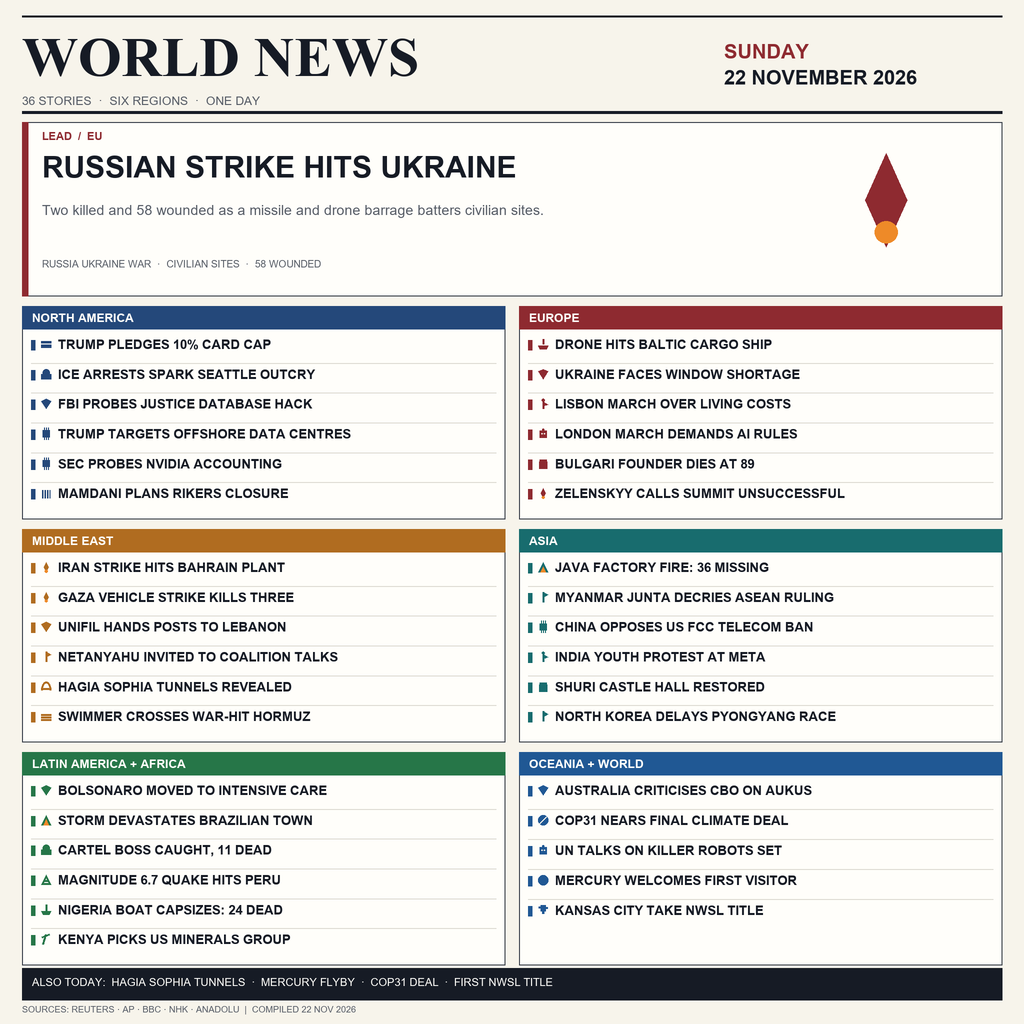
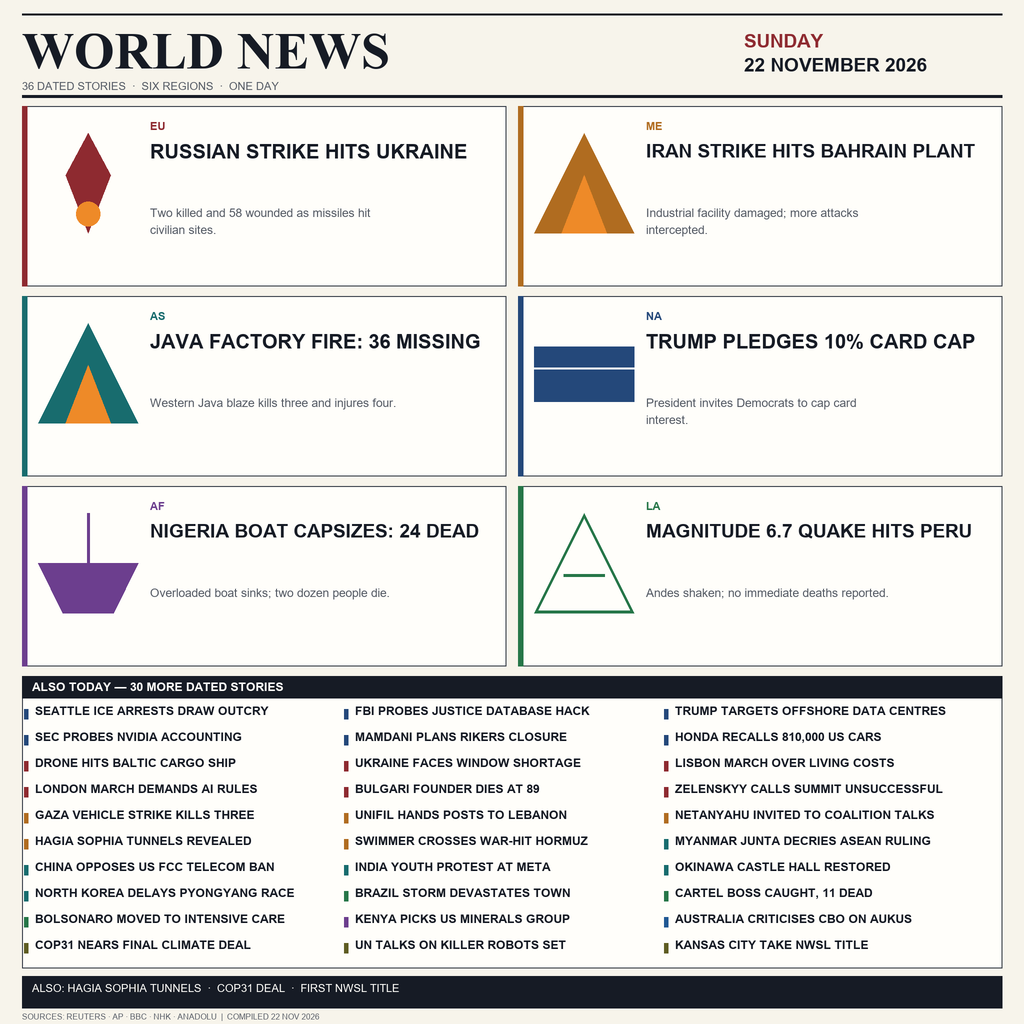
Improve legibility: six pictorial panels plus dated briefs

Changed region(s): [[0.0, 0.0, 1.0, 1.0]]

diff --git a/render.py b/render.py
@@ -1,225 +1,181 @@
 from PIL import Image, ImageDraw, ImageFont
+import textwrap
 
 S = 2
 W = H = 1024
 PAPER = (247, 244, 235)
 INK = (22, 27, 37)
-MUTED = (88, 94, 104)
+MUTED = (86, 92, 102)
 WHITE = (255, 254, 250)
-rule = (62, 68, 78)
-COLORS = {
+RULE = (62, 68, 78)
+C = {
     'NA': (36, 72, 122), 'EU': (142, 42, 48), 'ME': (176, 108, 32),
     'AS': (24, 108, 110), 'AF': (108, 62, 142), 'LA': (38, 118, 72),
-    'OC': (32, 88, 148), 'SCI': (94, 92, 34),
+    'OC': (32, 88, 148), 'WT': (94, 92, 34),
 }
-FONTS = 'C:/Windows/Fonts/'
-Regular = lambda n: ImageFont.truetype(FONTS + 'arial.ttf', n * S)
-Bold = lambda n: ImageFont.truetype(FONTS + 'arialbd.ttf', n * S)
-Serif = lambda n: ImageFont.truetype(FONTS + 'timesbd.ttf', n * S)
+F = 'C:/Windows/Fonts/'
+Reg = lambda n: ImageFont.truetype(F + 'arial.ttf', n * S)
+Bold = lambda n: ImageFont.truetype(F + 'arialbd.ttf', n * S)
+Serif = lambda n: ImageFont.truetype(F + 'timesbd.ttf', n * S)
 
-img = Image.new('RGB', (W * S, H * S), PAPER)
-d = ImageDraw.Draw(img)
-
-
-def px(v):
-    return int(round(v * S))
+im = Image.new('RGB', (W * S, H * S), PAPER)
+d = ImageDraw.Draw(im)
+p = lambda v: int(round(v * S))
 
 
-def text(x, y, s, font, fill=INK):
-    d.text((px(x), px(y)), s, font=font, fill=fill, anchor='la')
+def txt(x, y, s, font, fill=INK):
+    d.text((p(x), p(y)), s, font=font, fill=fill, anchor='la')
 
 
-def width(s, font):
+def wid(s, font):
     b = d.textbbox((0, 0), s, font=font)
     return (b[2] - b[0]) / S
 
 
-def bottom(y, s, font):
+def bot(y, s, font):
     b = d.textbbox((0, 0), s, font=font)
     return y + (b[3] - b[1]) / S
 
 
-def fitted(s, box_w, size, bold=True):
-    n = size
+def fit(s, maxw, n, bold=True):
     while n > 8:
-        f = Bold(n) if bold else Regular(n)
-        if width(s, f) <= box_w:
+        f = Bold(n) if bold else Reg(n)
+        if wid(s, f) <= maxw:
             return f
         n -= 1
-    return Bold(9) if bold else Regular(9)
+    return Bold(9) if bold else Reg(9)
 
 
-def rect(x0, y0, x1, y1, fill=None, outline=None, w=1):
-    d.rectangle((px(x0), px(y0), px(x1), px(y1)), fill=fill, outline=outline, width=px(w))
+def box(x0, y0, x1, y1, fill=None, outline=None, w=1):
+    d.rectangle((p(x0), p(y0), p(x1), p(y1)), fill=fill, outline=outline, width=p(w))
 
 
-def line(x0, y0, x1, y1, fill=rule, w=1):
-    d.line((px(x0), px(y0), px(x1), px(y1)), fill=fill, width=px(w))
+def ln(x0, y0, x1, y1, fill=RULE, w=1):
+    d.line((p(x0), p(y0), p(x1), p(y1)), fill=fill, width=p(w))
 
 
-def icon(kind, x, y, size, color):
-    s = size
-    cx, cy = x + s / 2, y + s / 2
-    if kind == 'missile':
-        d.polygon([(px(cx), px(y + 1)), (px(cx + s * .22), px(cy)), (px(cx), px(y + s - 1)), (px(cx - s * .22), px(cy))], fill=color)
-        d.ellipse((px(cx - s * .12), px(y + s * .72), px(cx + s * .12), px(y + s * .95)), fill=(238, 138, 40))
-    elif kind == 'ship':
-        d.polygon([(px(x + 1), px(cy + s * .12)), (px(x + s - 1), px(cy + s * .12)), (px(x + s * .78), px(y + s - 1)), (px(x + s * .22), px(y + s - 1))], fill=color)
-        line(x + s * .5, y + 1, x + s * .5, y + s * .5, color, 2)
-    elif kind == 'card':
-        rect(x + 1, y + s * .25, x + s - 1, y + s * .78, color)
-        line(x + 1, y + s * .45, x + s - 1, y + s * .45, WHITE, 1)
-    elif kind == 'police':
-        d.polygon([(px(x + 1), px(cy)), (px(x + s - 1), px(cy)), (px(x + s - 1), px(y + s - 1)), (px(x + 1), px(y + s - 1))], fill=color)
-        d.ellipse((px(cx - s * .28), px(y + 1), px(cx + s * .28), px(cy + 2)), fill=color)
-    elif kind == 'shield':
-        d.polygon([(px(cx), px(y + 1)), (px(x + s - 1), px(y + s * .28)), (px(cx), px(y + s - 1)), (px(x + 1), px(y + s * .28))], fill=color)
-    elif kind == 'chip':
-        rect(x + s * .22, y + s * .22, x + s * .78, y + s * .78, color)
-        for k in range(3):
-            line(x + s * .35 + k * s * .15, y, x + s * .35 + k * s * .15, y + s * .22, color, 1)
-            line(x + s * .35 + k * s * .15, y + s * .78, x + s * .35 + k * s * .15, y + s, color, 1)
-    elif kind == 'jail':
-        rect(x + 2, y + s * .22, x + s - 2, y + s - 1, color)
-        for k in range(3):
-            line(x + s * (.3 + k * .2), y + s * .22, x + s * (.3 + k * .2), y + s - 1, WHITE, 1)
-    elif kind == 'car':
-        rect(x + 1, y + s * .42, x + s - 1, y + s * .8, color)
-        d.ellipse((px(x + 2), px(y + s * .7), px(x + s * .35), px(y + s - 1)), fill=color)
-        d.ellipse((px(x + s * .65), px(y + s * .7), px(x + s - 2), px(y + s - 1)), fill=color)
-    elif kind == 'protest':
-        line(cx, y + s * .3, cx, y + s - 1, color, 2)
-        d.ellipse((px(cx - s * .12), px(y + 1), px(cx + s * .12), px(y + s * .3)), fill=color)
-        d.polygon([(px(cx), px(y + s * .3)), (px(x + s - 1), px(y + s * .55)), (px(cx), px(y + s * .7))], fill=color)
-    elif kind == 'fire':
-        d.polygon([(px(cx), px(y + 1)), (px(x + s - 1), px(y + s - 1)), (px(x + 1), px(y + s - 1))], fill=color)
-        d.polygon([(px(cx), px(y + s * .45)), (px(cx + s * .22), px(y + s - 1)), (px(cx - s * .22), px(y + s - 1))], fill=(238, 138, 40))
-    elif kind == 'quake':
-        d.polygon([(px(x + 1), px(y + s - 1)), (px(cx), px(y + 1)), (px(x + s - 1), px(y + s - 1))], outline=color, width=px(2))
-        line(x + s * .28, y + s * .6, x + s * .72, y + s * .6, color, 2)
-    elif kind == 'boat':
-        d.polygon([(px(x + 1), px(cy + s * .15)), (px(x + s - 1), px(cy + s * .15)), (px(x + s * .75), px(y + s - 1)), (px(x + s * .25), px(y + s - 1))], fill=color)
-        line(cx, y + 1, cx, cy + s * .15, color, 2)
-    elif kind == 'pick':
-        line(x + s * .25, y + s - 1, cx, y + 1, color, 2)
-        line(x + s * .15, y + s * .3, x + s * .8, y + 1, color, 2)
-    elif kind == 'leaf':
-        d.ellipse((px(x + 1), px(y + 1), px(x + s - 1), px(y + s - 1)), fill=color)
-        line(x + s * .2, y + s * .8, x + s * .8, y + s * .2, PAPER, 1)
-    elif kind == 'flag':
-        line(cx, y + 1, cx, y + s - 1, color, 2)
-        d.polygon([(px(cx), px(y + 1)), (px(x + s - 1), px(y + s * .32)), (px(cx), px(y + s * .55))], fill=color)
-    elif kind == 'tunnel':
-        d.arc((px(x + 1), px(y + 1), px(x + s - 1), px(y + s * 1.5)), 180, 360, fill=color, width=px(2))
-        line(x + 1, y + s * .7, x + s - 1, y + s * .7, color, 2)
-    elif kind == 'planet':
-        d.ellipse((px(x + 1), px(y + 1), px(x + s - 1), px(y + s - 1)), outline=color, width=px(2))
-        d.ellipse((px(x + s * .2), px(y + s * .2), px(x + s * .8), px(y + s * .8)), fill=color)
-    elif kind == 'robot':
-        rect(x + s * .2, y + s * .25, x + s * .8, y + s * .85, color)
-        d.ellipse((px(cx - s * .1), px(y + s * .1), px(cx + s * .1), px(y + s * .3)), fill=color)
-        d.ellipse((px(x + s * .35), px(y + s * .45), px(x + s * .44), px(y + s * .55)), fill=PAPER)
-        d.ellipse((px(x + s * .56), px(y + s * .45), px(x + s * .65), px(y + s * .55)), fill=PAPER)
-    elif kind == 'castle':
-        rect(x + s * .18, y + s * .35, x + s * .82, y + s - 1, color)
-        for k in range(3):
-            rect(x + s * (.2 + k * .22), y + s * .18, x + s * (.36 + k * .22), y + s * .4, color)
-    elif kind == 'trophy':
-        rect(x + s * .3, y + 1, x + s * .7, y + s * .6, color)
-        line(x + s * .3, y + s * .3, x + s * .12, y + s * .3, color, 2)
-        line(x + s * .7, y + s * .3, x + s * .88, y + s * .3, color, 2)
-        rect(x + s * .42, y + s * .6, x + s * .58, y + s * .8, color)
-    elif kind == 'swim':
-        for k in range(3):
-            line(x + 1, y + s * (.35 + k * .22), x + s - 1, y + s * (.35 + k * .22), color, 2)
+def icon(k, x, y, s, col):
+    cx = x + s / 2
+    if k == 'missile':
+        d.polygon([(p(cx), p(y + 1)), (p(cx + s * .22), p(y + s * .42)), (p(cx), p(y + s - 1)), (p(cx - s * .22), p(y + s * .42))], fill=col)
+        d.ellipse((p(cx - s * .12), p(y + s * .68), p(cx + s * .12), p(y + s * .92)), fill=(238, 138, 40))
+    elif k == 'fire':
+        d.polygon([(p(cx), p(y + 1)), (p(x + s - 1), p(y + s - 1)), (p(x + 1), p(y + s - 1))], fill=col)
+        d.polygon([(p(cx), p(y + s * .42)), (p(cx + s * .22), p(y + s - 1)), (p(cx - s * .22), p(y + s - 1))], fill=(238, 138, 40))
+    elif k == 'card':
+        box(x + 1, y + s * .24, x + s - 1, y + s * .78, col)
+        ln(x + 1, y + s * .45, x + s - 1, y + s * .45, WHITE, 2)
+    elif k == 'shield':
+        d.polygon([(p(cx), p(y + 1)), (p(x + s - 1), p(y + s * .28)), (p(cx), p(y + s - 1)), (p(x + 1), p(y + s * .28))], fill=col)
+    elif k == 'quake':
+        d.polygon([(p(x + 1), p(y + s - 1)), (p(cx), p(y + 1)), (p(x + s - 1), p(y + s - 1))], outline=col, width=p(3))
+        ln(x + s * .3, y + s * .62, x + s * .7, y + s * .62, col, 3)
+    elif k == 'boat':
+        d.polygon([(p(x + 1), p(y + s * .5)), (p(x + s - 1), p(y + s * .5)), (p(x + s * .75), p(y + s - 1)), (p(x + s * .25), p(y + s - 1))], fill=col)
+        ln(cx, y + 1, cx, y + s * .5, col, 3)
+    elif k == 'police':
+        box(x + 2, y + s * .4, x + s - 2, y + s - 1, col)
+        d.ellipse((p(cx - s * .28), p(y + 1), p(cx + s * .28), p(y + s * .45)), fill=col)
+    elif k == 'chip':
+        box(x + s * .22, y + s * .22, x + s * .78, y + s * .78, col)
+        for i in range(3):
+            ln(x + s * (.35 + i * .15), y, x + s * (.35 + i * .15), y + s * .22, col, 2)
+            ln(x + s * (.35 + i * .15), y + s * .78, x + s * (.35 + i * .15), y + s, col, 2)
+    elif k == 'protest':
+        ln(cx, y + s * .3, cx, y + s - 1, col, 3)
+        d.ellipse((p(cx - s * .12), p(y + 1), p(cx + s * .12), p(y + s * .3)), fill=col)
+        d.polygon([(p(cx), p(y + s * .3)), (p(x + s - 1), p(y + s * .55)), (p(cx), p(y + s * .72))], fill=col)
+    elif k == 'leaf':
+        d.ellipse((p(x + 1), p(y + 1), p(x + s - 1), p(y + s - 1)), fill=col)
+        ln(x + s * .2, y + s * .8, x + s * .8, y + s * .2, PAPER, 2)
+    elif k == 'trophy':
+        box(x + s * .3, y + 1, x + s * .7, y + s * .6, col)
+        ln(x + s * .3, y + s * .3, x + s * .12, y + s * .3, col, 2)
+        ln(x + s * .7, y + s * .3, x + s * .88, y + s * .3, col, 2)
+    elif k == 'flag':
+        ln(cx, y + 1, cx, y + s - 1, col, 3)
+        d.polygon([(p(cx), p(y + 1)), (p(x + s - 1), p(y + s * .32)), (p(cx), p(y + s * .58))], fill=col)
+    elif k == 'castle':
+        box(x + s * .18, y + s * .35, x + s * .82, y + s - 1, col)
+        for i in range(3):
+            box(x + s * (.2 + i * .22), y + s * .18, x + s * (.36 + i * .22), y + s * .4, col)
+    elif k == 'swim':
+        for i in range(3):
+            ln(x + 1, y + s * (.35 + i * .22), x + s - 1, y + s * (.35 + i * .22), col, 3)
     else:
-        d.ellipse((px(x + 2), px(y + 2), px(x + s - 2), px(y + s - 2)), fill=color)
+        d.ellipse((p(x + 2), p(y + 2), p(x + s - 2), p(y + s - 2)), fill=col)
 
 
-LEAD = ('EU', 'missile', 'RUSSIAN STRIKE HITS UKRAINE',
-        'Two killed and 58 wounded as a missile and drone barrage batters civilian sites.')
-
-BLOCKS = [
-    ('NA', 'NORTH AMERICA', [
-        ('card', 'TRUMP PLEDGES 10% CARD CAP'), ('police', 'ICE ARRESTS SPARK SEATTLE OUTCRY'),
-        ('shield', 'FBI PROBES JUSTICE DATABASE HACK'), ('chip', 'TRUMP TARGETS OFFSHORE DATA CENTRES'),
-        ('chip', 'SEC PROBES NVIDIA ACCOUNTING'), ('jail', 'MAMDANI PLANS RIKERS CLOSURE'),
-    ]),
-    ('EU', 'EUROPE', [
-        ('ship', 'DRONE HITS BALTIC CARGO SHIP'), ('shield', 'UKRAINE FACES WINDOW SHORTAGE'),
-        ('protest', 'LISBON MARCH OVER LIVING COSTS'), ('robot', 'LONDON MARCH DEMANDS AI RULES'),
-        ('castle', 'BULGARI FOUNDER DIES AT 89'), ('missile', 'ZELENSKYY CALLS SUMMIT UNSUCCESSFUL'),
-    ]),
-    ('ME', 'MIDDLE EAST', [
-        ('missile', 'IRAN STRIKE HITS BAHRAIN PLANT'), ('missile', 'GAZA VEHICLE STRIKE KILLS THREE'),
-        ('shield', 'UNIFIL HANDS POSTS TO LEBANON'), ('flag', 'NETANYAHU INVITED TO COALITION TALKS'),
-        ('tunnel', 'HAGIA SOPHIA TUNNELS REVEALED'), ('swim', 'SWIMMER CROSSES WAR-HIT HORMUZ'),
-    ]),
-    ('AS', 'ASIA', [
-        ('fire', 'JAVA FACTORY FIRE: 36 MISSING'), ('flag', 'MYANMAR JUNTA DECRIES ASEAN RULING'),
-        ('chip', 'CHINA OPPOSES US FCC TELECOM BAN'), ('protest', 'INDIA YOUTH PROTEST AT META'),
-        ('castle', 'SHURI CASTLE HALL RESTORED'), ('flag', 'NORTH KOREA DELAYS PYONGYANG RACE'),
-    ]),
-    ('LA', 'LATIN AMERICA + AFRICA', [
-        ('shield', 'BOLSONARO MOVED TO INTENSIVE CARE'), ('fire', 'STORM DEVASTATES BRAZILIAN TOWN'),
-        ('police', 'CARTEL BOSS CAUGHT, 11 DEAD'), ('quake', 'MAGNITUDE 6.7 QUAKE HITS PERU'),
-        ('boat', 'NIGERIA BOAT CAPSIZES: 24 DEAD'), ('pick', 'KENYA PICKS US MINERALS GROUP'),
-    ]),
-    ('OC', 'OCEANIA + WORLD', [
-        ('shield', 'AUSTRALIA CRITICISES CBO ON AUKUS'), ('leaf', 'COP31 NEARS FINAL CLIMATE DEAL'),
-        ('robot', 'UN TALKS ON KILLER ROBOTS SET'), ('planet', 'MERCURY WELCOMES FIRST VISITOR'),
-        ('trophy', 'KANSAS CITY TAKE NWSL TITLE'),
-    ]),
+PANELS = [
+    ('EU', 'missile', 'RUSSIAN STRIKE HITS UKRAINE', 'Two killed and 58 wounded as missiles hit civilian sites.'),
+    ('ME', 'fire', 'IRAN STRIKE HITS BAHRAIN PLANT', 'Industrial facility damaged; more attacks intercepted.'),
+    ('AS', 'fire', 'JAVA FACTORY FIRE: 36 MISSING', 'Western Java blaze kills three and injures four.'),
+    ('NA', 'card', 'TRUMP PLEDGES 10% CARD CAP', 'President invites Democrats to cap card interest.'),
+    ('AF', 'boat', 'NIGERIA BOAT CAPSIZES: 24 DEAD', 'Overloaded boat sinks; two dozen people die.'),
+    ('LA', 'quake', 'MAGNITUDE 6.7 QUAKE HITS PERU', 'Andes shaken; no immediate deaths reported.'),
 ]
 
-# masthead
-line(22, 16, 1002, 16, INK, 2)
-text(22, 26, 'WORLD NEWS', Serif(56), INK)
-assert bottom(26, 'WORLD NEWS', Serif(56)) < 86
-text(724, 40, 'SUNDAY', Bold(20), COLORS['EU'])
-text(724, 66, '22 NOVEMBER 2026', Bold(20), INK)
-text(22, 94, '36 STORIES  ·  SIX REGIONS  ·  ONE DAY', Regular(12), MUTED)
-line(22, 112, 1002, 112, INK, 3)
+BRIEFS = [
+    ('NA', 'SEATTLE ICE ARRESTS DRAW OUTCRY'), ('NA', 'FBI PROBES JUSTICE DATABASE HACK'),
+    ('NA', 'TRUMP TARGETS OFFSHORE DATA CENTRES'), ('NA', 'SEC PROBES NVIDIA ACCOUNTING'),
+    ('NA', 'MAMDANI PLANS RIKERS CLOSURE'), ('NA', 'HONDA RECALLS 810,000 US CARS'),
+    ('EU', 'DRONE HITS BALTIC CARGO SHIP'), ('EU', 'UKRAINE FACES WINDOW SHORTAGE'),
+    ('EU', 'LISBON MARCH OVER LIVING COSTS'), ('EU', 'LONDON MARCH DEMANDS AI RULES'),
+    ('EU', 'BULGARI FOUNDER DIES AT 89'), ('EU', 'ZELENSKYY CALLS SUMMIT UNSUCCESSFUL'),
+    ('ME', 'GAZA VEHICLE STRIKE KILLS THREE'), ('ME', 'UNIFIL HANDS POSTS TO LEBANON'),
+    ('ME', 'NETANYAHU INVITED TO COALITION TALKS'), ('ME', 'HAGIA SOPHIA TUNNELS REVEALED'),
+    ('ME', 'SWIMMER CROSSES WAR-HIT HORMUZ'), ('AS', 'MYANMAR JUNTA DECRIES ASEAN RULING'),
+    ('AS', 'CHINA OPPOSES US FCC TELECOM BAN'), ('AS', 'INDIA YOUTH PROTEST AT META'),
+    ('AS', 'OKINAWA CASTLE HALL RESTORED'), ('AS', 'NORTH KOREA DELAYS PYONGYANG RACE'),
+    ('LA', 'BRAZIL STORM DEVASTATES TOWN'), ('LA', 'CARTEL BOSS CAUGHT, 11 DEAD'),
+    ('LA', 'BOLSONARO MOVED TO INTENSIVE CARE'), ('AF', 'KENYA PICKS US MINERALS GROUP'),
+    ('OC', 'AUSTRALIA CRITICISES CBO ON AUKUS'), ('WT', 'COP31 NEARS FINAL CLIMATE DEAL'),
+    ('WT', 'UN TALKS ON KILLER ROBOTS SET'), ('WT', 'KANSAS CITY TAKE NWSL TITLE'),
+]
 
-# lead box
-rect(22, 122, 1002, 296, WHITE, rule, 1)
-rect(22, 122, 28, 296, COLORS[LEAD[0]])
-text(42, 130, 'LEAD  /  ' + LEAD[0], Bold(11), COLORS[LEAD[0]])
-f = fitted(LEAD[2], 720, 30)
-text(42, 150, LEAD[2], f, INK)
-assert bottom(150, LEAD[2], f) < 196
-f2 = fitted(LEAD[3], 700, 14, False)
-text(42, 202, LEAD[3], f2, MUTED)
-assert bottom(202, LEAD[3], f2) < 245
-icon(LEAD[1], 838, 152, 96, COLORS[LEAD[0]])
-text(42, 258, 'RUSSIA UKRAINE WAR  ·  CIVILIAN SITES  ·  58 WOUNDED', Regular(10), MUTED)
+ln(22, 14, 1002, 14, INK, 2)
+txt(22, 22, 'WORLD NEWS', Serif(52), INK)
+assert bot(22, 'WORLD NEWS', Serif(52)) < 82
+txt(744, 30, 'SUNDAY', Bold(19), C['EU'])
+txt(744, 54, '22 NOVEMBER 2026', Bold(19), INK)
+txt(22, 80, '36 DATED STORIES  ·  SIX REGIONS  ·  ONE DAY', Reg(11), MUTED)
+ln(22, 96, 1002, 96, INK, 3)
 
-# six region blocks
-BW, BH, GX, GY = 483, 213, 14, 10
-for idx, (key, title, stories) in enumerate(BLOCKS):
-    col, row = idx % 2, idx // 2
-    x0 = 22 + col * (BW + GX)
-    y0 = 306 + row * (BH + GY)
-    rect(x0, y0, x0 + BW, y0 + BH, WHITE, rule, 1)
-    rect(x0, y0, x0 + BW, y0 + 23, COLORS[key])
-    text(x0 + 10, y0 + 5, title, Bold(12), WHITE)
-    n = len(stories)
-    step = min(30, (BH - 34) / max(n, 1))
-    for k, (kind, headline) in enumerate(stories):
-        ly = y0 + 31 + k * step
-        f = fitted(headline, BW - 44, 13)
-        assert bottom(ly, headline, f) <= y0 + BH - 4, (title, headline)
-        rect(x0 + 9, ly + 3, x0 + 13, ly + 13, COLORS[key])
-        icon(kind, x0 + 18, ly + 1, 12, COLORS[key])
-        text(x0 + 36, ly, headline, f, INK)
-        if k + 1 < n:
-            line(x0 + 9, ly + step - 4, x0 + BW - 9, ly + step - 4, (222, 220, 212), 1)
+PW, PH, GX, GY = 484, 180, 12, 10
+for i, (reg, kind, head, detail) in enumerate(PANELS):
+    col, row = i % 2, i // 2
+    x = 22 + col * (PW + GX)
+    y = 106 + row * (PH + GY)
+    box(x, y, x + PW, y + PH, WHITE, RULE, 1)
+    box(x, y, x + 5, y + PH, C[reg])
+    icon(kind, x + 15, y + 26, 102, C[reg])
+    txt(x + 128, y + 14, reg, Bold(11), C[reg])
+    hf = fit(head, PW - 145, 20)
+    lines = textwrap.wrap(head, width=30)
+    for j, line in enumerate(lines[:2]):
+        txt(x + 128, y + 34 + j * 27, line, hf, INK)
+    df = fit(detail, PW - 145, 12, False)
+    for j, line in enumerate(textwrap.wrap(detail, width=48)[:2]):
+        txt(x + 128, y + 100 + j * 17, line, df, MUTED)
+    assert y + 140 < y + PH
 
-# footer
-rect(22, 968, 1002, 1000, INK)
-text(32, 976, 'ALSO TODAY:  HAGIA SOPHIA TUNNELS  ·  MERCURY FLYBY  ·  COP31 DEAL  ·  FIRST NWSL TITLE', Regular(11), WHITE)
-text(22, 1004, 'SOURCES: REUTERS · AP · BBC · NHK · ANADOLU  |  COMPILED 22 NOV 2026', Regular(9), MUTED)
+box(22, 676, 1002, 968, WHITE, RULE, 1)
+box(22, 676, 1002, 698, INK)
+txt(32, 680, 'ALSO TODAY — 30 MORE DATED STORIES', Bold(12), WHITE)
+CW, RH = 320, 26
+for i, (reg, head) in enumerate(BRIEFS):
+    col, row = i % 3, i // 3
+    x = 22 + col * CW
+    y = 704 + row * RH
+    f = fit(head, CW - 32, 12)
+    assert bot(y, head, f) < y + RH
+    box(x + 2, y + 5, x + 6, y + 15, C[reg])
+    txt(x + 13, y, head, f, INK)
 
-out = img.resize((W, H), Image.Resampling.LANCZOS)
+box(22, 976, 1002, 1008, INK)
+txt(32, 982, 'ALSO: HAGIA SOPHIA TUNNELS  ·  COP31 DEAL  ·  FIRST NWSL TITLE', Reg(11), WHITE)
+txt(22, 1012, 'SOURCES: REUTERS · AP · BBC · NHK · ANADOLU  |  COMPILED 22 NOV 2026', Reg(8), MUTED)
+
+out = im.resize((W, H), Image.Resampling.LANCZOS)
 out.save('C:/Users/ainur/AppData/Local/hermes/cache/scratch/makefun/news-entry/entry.png', optimize=False)
 print('wrote entry.png', W, H)
